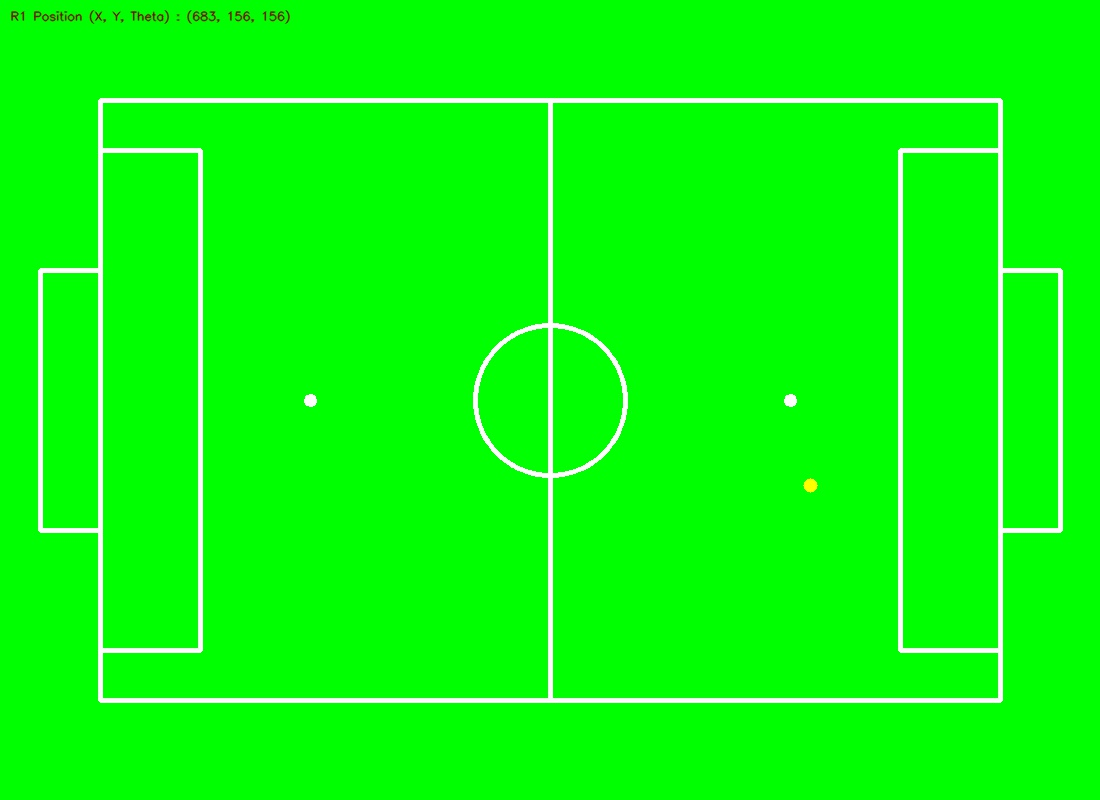
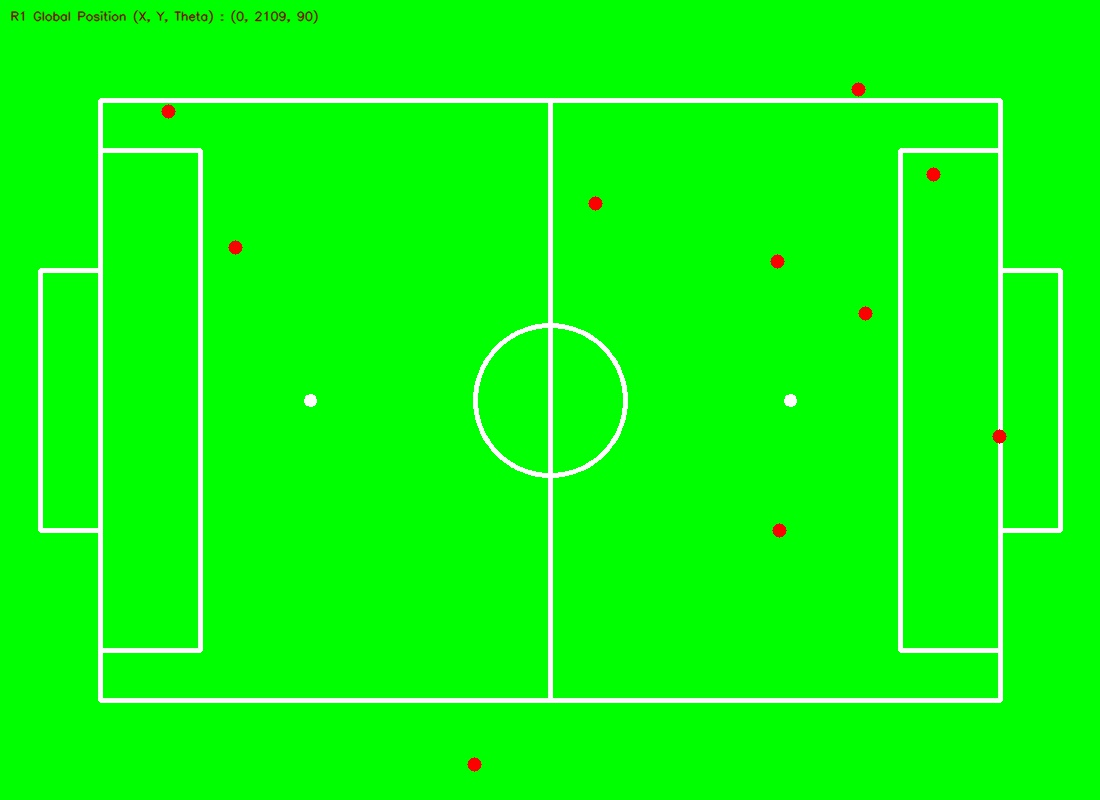
Update omni motion model

diff --git a/Source-Code/BarelangFC-Particle-Filter-Sim.py b/Source-Code/BarelangFC-Particle-Filter-Sim.py
@@ -15,6 +15,7 @@ import cv2
 UDP_IP = "127.0.0.1"
 UDP_PORT = 5005
 
+# Satuan dalam CM
 fieldLength = 900
 fieldWidth = 600
 totalParticles = 100
@@ -22,14 +23,16 @@ totalLandmarks = 2
 
 # Global Variable
 # Robot position 1D array
-robotPosition = np.zeros((3), dtype=int)
+robotGlobalPosition = np.zeros((3), dtype=int)
+robotLocalPosition = np.zeros((3), dtype=int)
 
 # Estimate position
 estimatePosition = np.zeros((3), dtype=int)
 
 # Landmarks position 2D array
 landmarksPosition = np.zeros((totalLandmarks, 2), dtype=int)
-particlesPosition = np.zeros((totalParticles, 3), dtype=int)
+particlesGlobalPosition = np.zeros((totalParticles, 3), dtype=int)
+particlesLocalPosition = np.zeros((totalParticles, 3), dtype=int)
 distanceRobotToLandmarks = np.zeros((totalLandmarks), dtype=int)
 distanceParticlesToLandmarks = np.zeros((totalParticles, totalLandmarks), dtype=int)
 particlesWeight= np.zeros((totalParticles), dtype=float)
@@ -93,11 +96,16 @@ def convertVel(robotId, inputVel):
 
 def main():
     # Initialize robot position
-    robotPosition[0] = uniform(0, fieldLength)
-    robotPosition[1] = uniform(0, fieldWidth)
+    robotGlobalPosition[0] = uniform(0, fieldLength)
+    robotGlobalPosition[1] = uniform(0, fieldWidth)
     # Set initial location of robot
-    robotPosition[0] = 50
-    robotPosition[1] = 300
+    robotGlobalPosition[0] = 0
+    robotGlobalPosition[1] = 0
+    robotGlobalPosition[2] = 90 # Heading
+
+    robotLocalPosition[0] = 0
+    robotLocalPosition[1] = 0
+    robotLocalPosition[2] = robotGlobalPosition[2] # Heading
 
     # Initialize landmark position
     landmarksPosition[:, 0] = uniform(0, fieldLength, size=totalLandmarks)
@@ -116,16 +124,16 @@ def main():
 
     # Create random position of particles
     # print 'Process ==> Create random particles'
-    particlesPosition[:, 0] = uniform(0, fieldLength, size=totalParticles)
-    particlesPosition[:, 1] = uniform(0, fieldWidth, size=totalParticles)
+    particlesGlobalPosition[:, 0] = uniform(0, fieldLength, size=totalParticles)
+    particlesGlobalPosition[:, 1] = uniform(0, fieldWidth, size=totalParticles)
     # print 'Particles position :'
-    # print particlesPosition
+    # print particlesGlobalPosition
 
     mapImage = np.zeros((800,1100,3), np.uint8)
     
     # Simualte velocity value
     # X Y alpha velocity command from robot
-    simVelocity = np.empty([3], dtype=int)
+    realVelocity = np.empty([3], dtype=int)
     # Loop every 1 second
     deltaTime = 1 
 
@@ -134,18 +142,18 @@ def main():
     # axes.set_xlim(0, 900)
     # axes.set_ylim(0, 600)
     # plt.title('Barelang FC - Particle Filter Simulation')
-    # particlesData, = axes.plot(particlesPosition[:,0], particlesPosition[:,1], 'ro')
+    # particlesData, = axes.plot(particlesGlobalPosition[:,0], particlesGlobalPosition[:,1], 'ro')
     # robotPosData, = axes.plot(robotPosition[0], robotPosition[1], 'ro', color='g')
     # estimatePosData, = axes.plot(estimatePosition[0], estimatePosition[1], 'ro', color='b')
     # landmarksPosData, = axes.plot(landmarksPosition[:,0], landmarksPosition[:,1], 'ro', color='y')
 
     # Create UDP client to receive data from kinematic
-    try:
-        sock = socket.socket(socket.AF_INET, socket.SOCK_DGRAM) 
-        sock.bind((UDP_IP, UDP_PORT))
-    except socket.error:
-        print 'Failed to create socket'
-        sys.exit()
+    # try:
+    #     sock = socket.socket(socket.AF_INET, socket.SOCK_DGRAM) 
+    #     sock.bind((UDP_IP, UDP_PORT))
+    # except socket.error:
+    #     print 'Failed to create socket'
+    #     sys.exit()
 
     loop = 0
 
@@ -164,66 +172,76 @@ def main():
         # cv2.imwrite("mapImage.jpg", mapImage)
         # break
 
-        # Get data from kinematic
-        data, _ = sock.recvfrom(1024) # buffer size is 1024 bytes
-        # print "Vel Input : ", data
+        # # Get data from kinematic
+        # data, _ = sock.recvfrom(1024) # buffer size is 1024 bytes
+        # # print "Vel Input : ", data
         velFromKinematic = np.zeros((3))
-        strVelFromKinematic = data.split(",")
-        velFromKinematic[0] = float(strVelFromKinematic[0])
-        velFromKinematic[1] = float(strVelFromKinematic[1])
-        velFromKinematic[2] = float(strVelFromKinematic[2])
+        # strVelFromKinematic = data.split(",")
+        # velFromKinematic[0] = float(strVelFromKinematic[0])
+        # velFromKinematic[1] = float(strVelFromKinematic[1])
+        # velFromKinematic[2] = float(strVelFromKinematic[2])
+
+        velFromKinematic[0] = 0.01
+        velFromKinematic[1] = 0.00
+        velFromKinematic[2] = 0.00
 
         # print "Input Vel : ", velFromKinematic
 
         # X = 5, Y = 0, alpha = 0
-        # simVelocity[0] = 10 
-        # simVelocity[1] = 0 
-        # simVelocity[2] = 0 
+        # realVelocity[0] = 10 
+        # realVelocity[1] = 0 
+        # realVelocity[2] = 0 
 
-        simVelocity = convertVel(robotID, velFromKinematic)
-        # print "Output Vel : ", simVelocity
-
+        # Nanti diganti nama jadi real velocity
+        realVelocity = convertVel(robotID, velFromKinematic)
+        # print "Real Velocity : ", realVelocity
         # Simulate robot movement
-        vectVelocity  = math.sqrt(pow(simVelocity[0], 2) + pow(simVelocity[1], 2))
+        # if robotLocalPosition[0] >= 0 and robotLocalPosition[0] < fieldLength and robotLocalPosition[1] >= 0 and robotLocalPosition[1] < fieldWidth:
+        robotLocalPosition[0] += realVelocity[0] * deltaTime
+        robotLocalPosition[1] += realVelocity[1] * deltaTime
+        robotLocalPosition[2] += realVelocity[2] * deltaTime
 
-        if simVelocity[2] != 0:
-            robotPosition[0] += (vectVelocity / simVelocity[2]) * ( math.sin(math.radians(robotPosition[2])) + (simVelocity[2] * deltaTime) ) - math.sin(math.radians(robotPosition[2]))
-            robotPosition[1] += (vectVelocity / simVelocity[2]) * ( math.cos(math.radians(robotPosition[2])) - math.cos(math.radians(robotPosition[2])) + (simVelocity[2] * deltaTime))
-            robotPosition[2] += simVelocity[2] * deltaTime
-            # // Add measurements to particles
-            # particles[i].x += (velocity/yaw_rate) * (sin(particles[i].theta + (yaw_rate * delta_t)) - sin(particles[i].theta));
-            # particles[i].y += (velocity/yaw_rate) * (cos(particles[i].theta) - cos(particles[i].theta + (yaw_rate * delta_t)));
-            # particles[i].theta += yaw_rate * delta_t;
-        else:
-            robotPosition[0] += simVelocity[0] * deltaTime 
-            robotPosition[1] += simVelocity[1] * deltaTime 
+        # Create matrix rotation
+        theta = np.radians(robotLocalPosition[2])
+        c, s = np.cos(theta), np.sin(theta)
+        R = np.array(((c,-s), (s, c)))
+        # Multiply rotation matrix with robot local position x dan y
+        npOutMatMul = np.matmul(R, robotLocalPosition[:2]) 
+        # print npOutMatMul
 
-        # } else {
-        # // Add measurements to particles
-        # particles[i].x += velocity * delta_t * cos(particles[i].theta);
-        # particles[i].y += velocity * delta_t * sin(particles[i].theta);
-        # // Theta will stay the same due to no yaw_rate
-        
-        # }
-        # print "Vel : ", vectVelocity
-        # robotPosition[0] += simVelocity[0]
-        # robotPosition[1] += simVelocity[1]
-        print 'Robot position : (%d, %d, %d)'%(robotPosition[0], robotPosition[1], robotPosition[2])
+        # if robotGlobalPosition[0] >= 0 and robotGlobalPosition[0] < fieldLength and robotGlobalPosition[1] >= 0 and robotGlobalPosition[1] < fieldWidth:
+        robotGlobalPosition[0] += npOutMatMul[0]
+        robotGlobalPosition[1] += npOutMatMul[1]
+        robotGlobalPosition[2] = robotLocalPosition[2]
+
+        # print 'Robot position : (%d, %d, %d)'%(robotGlobalPosition[0], robotGlobalPosition[1], robotGlobalPosition[2])
 
         # Predict movement of particles
         # print 'Process ==> Predict movement of particles'
-        particlesPosition[:,0] += int(simVelocity[0])
-        particlesPosition[:,1] += int(simVelocity[1])
+        particlesLocalPosition[:,0] += int(realVelocity[0])* deltaTime
+        particlesLocalPosition[:,1] += int(realVelocity[1]) * deltaTime
+        particlesLocalPosition[:,2] += int(realVelocity[2]) * deltaTime
         # Simulate noise movement of robot with error stddev = 10
-        particlesPosition[:,0] = normal(particlesPosition[:,0], 10)
-        particlesPosition[:,1] = normal(particlesPosition[:,1], 10)
+        particlesLocalPosition[:,0] = normal(particlesLocalPosition[:,0], 10)
+        particlesLocalPosition[:,1] = normal(particlesLocalPosition[:,1], 10)
+        particlesLocalPosition[:,2] = normal(particlesLocalPosition[:,1], 3)
+
+        for i in range (0,totalParticles):
+            # Create matrix rotation
+            theta = np.radians(particlesLocalPosition[i,2])
+            c, s = np.cos(theta), np.sin(theta)
+            R = np.array(((c,-s), (s, c)))
+            npOutMatMul = np.matmul(R, particlesLocalPosition[i,:2]) 
+            particlesGlobalPosition[i,0] += npOutMatMul[0]
+            particlesGlobalPosition[i,1] += npOutMatMul[1]
+            particlesGlobalPosition[i,2] = particlesLocalPosition[i,2]
 
         # print 'Particles position'
-        # print particlesPosition
+        # print particlesGlobalPosition
         # Update measurement
         # Measurement distance between robot and landmarks
         for i in range (0,totalLandmarks):
-            distanceRobotToLandmarks[i] = math.hypot(robotPosition[0] - landmarksPosition[i,0], robotPosition[1] - landmarksPosition[i,1])
+            distanceRobotToLandmarks[i] = math.hypot(robotGlobalPosition[0] - landmarksPosition[i,0], robotGlobalPosition[1] - landmarksPosition[i,1])
             # Simulate noise with random gaussian from measurment
             distanceRobotToLandmarks[i] = normal(distanceRobotToLandmarks[i], 10)
         # print 'Distance Robot to Landmarks :'
@@ -231,7 +249,7 @@ def main():
         # Measurement distance between particles and landmarks
         for i in range (0, totalParticles):
             for j in range (0, totalLandmarks):
-                distanceParticlesToLandmarks[i,j] = math.hypot(particlesPosition[i,0] - landmarksPosition[j,0], particlesPosition[i,1] - landmarksPosition[j,1])
+                distanceParticlesToLandmarks[i,j] = math.hypot(particlesGlobalPosition[i,0] - landmarksPosition[j,0], particlesGlobalPosition[i,1] - landmarksPosition[j,1])
         # print 'Distance Particles to Landmarks :'
         # print distanceParticlesToLandmarks
         # Calculating weight
@@ -251,26 +269,26 @@ def main():
         # print particlesWeight
 
         # Calculate estimate position
-        pos = particlesPosition[:, 0:2]
+        pos = particlesGlobalPosition[:, 0:2]
         mean = np.average(pos, weights=particlesWeight, axis=0)    
 
         estimatePosition = mean
         # print 'Estimate Position : (%d,%d)'%(estimatePosition[0],estimatePosition[1])
         
-        drawParticles = False
+        drawParticles = True
         if drawParticles == True:
             for i in range (0, totalParticles):
-                cv2.circle(mapImage,(particlesPosition[i,0]+100, 800 - (particlesPosition[i,1]+100) ), 7, (0,0,255), -1)
+                cv2.circle(mapImage,(particlesGlobalPosition[i,0]+100, 800 - (particlesGlobalPosition[i,1]+100) ), 7, (0,0,255), -1)
 
         
-        cv2.circle(mapImage,(robotPosition[0]+100, 800 - (robotPosition[1]+100) ), 7, (0,255,255), -1)
-        # cv2.circle(mapImage,(int(estimatePosition[0])+100, 800 - (int(estimatePosition[1])+100)), 7, (255,0,0), -1)
+        cv2.circle(mapImage,(robotGlobalPosition[0]+100, 800 - (robotGlobalPosition[1]+100) ), 7, (0,255,255), -1)
+        cv2.circle(mapImage,(int(estimatePosition[0])+100, 800 - (int(estimatePosition[1])+100)), 7, (255,0,0), -1)
 
-        textLine = "R{} Position (X, Y, Theta) : ({}, {}, {})".format(robotID, int(estimatePosition[0]), int(estimatePosition[1]), int(estimatePosition[1]))
+        textLine = "R{} Global Position (X, Y, Theta) : ({}, {}, {})".format(robotID, int(robotGlobalPosition[0]), int(robotGlobalPosition[1]), int(robotGlobalPosition[2]))
         cv2.putText(mapImage, textLine, (10,20), cv2.FONT_HERSHEY_SIMPLEX, 0.4, (0, 0, 127), 1, cv2.LINE_AA)
 
         # Enable GUI Streaming
-        showGUI = False
+        showGUI = True
         if showGUI:
             cv2.imshow("Barelang FC - Localization ", mapImage)
         # Enable URL Streaming
@@ -278,8 +296,8 @@ def main():
         if streamUrl == True:
             cv2.imwrite('stream.jpg', mapImage)
             yield (b'--frame\r\n'b'Content-Type: image/jpeg\r\n\r\n' + open('stream.jpg', 'rb').read() + b'\r\n')
-        # particlesData.set_xdata(particlesPosition[:,0])
-        # particlesData.set_ydata(particlesPosition[:,1])
+        # particlesData.set_xdata(particlesGlobalPosition[:,0])
+        # particlesData.set_ydata(particlesGlobalPosition[:,1])
         # robotPosData.set_xdata(robotPosition[0])
         # robotPosData.set_ydata(robotPosition[1])
         # estimatePosData.set_xdata(estimatePosition[0])
@@ -291,23 +309,23 @@ def main():
                 
         # Resample
         indexHighestWeight = np.argmax(particlesWeight)
-        xHighest = particlesPosition[indexHighestWeight,0]
-        yHighest = particlesPosition[indexHighestWeight,1]
+        xHighest = particlesGlobalPosition[indexHighestWeight,0]
+        yHighest = particlesGlobalPosition[indexHighestWeight,1]
 
         _10PercentParticle = int(totalParticles * 0.1)
 
         for i in range (0, _10PercentParticle):
-            particlesPosition[i,0] = uniform(0, fieldLength)
-            particlesPosition[i,1] = uniform(0, fieldWidth)
+            particlesGlobalPosition[i,0] = uniform(0, fieldLength)
+            particlesGlobalPosition[i,1] = uniform(0, fieldWidth)
 
         _90PercentParticle = totalParticles - _10PercentParticle
 
         for i in range (_10PercentParticle + 1, _90PercentParticle):
-            particlesPosition[i,0] = normal(xHighest, 20)
-            particlesPosition[i,1] = normal(yHighest, 20) 
+            particlesGlobalPosition[i,0] = normal(xHighest, 20)
+            particlesGlobalPosition[i,1] = normal(yHighest, 20) 
 
         loop += 1     
-        k = cv2.waitKey(1000)
+        k = cv2.waitKey(deltaTime * 1000)
         if k == ord('x'):         # X
             break
 
